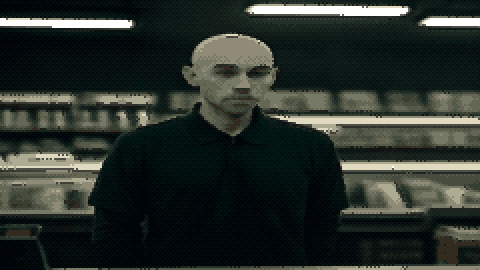
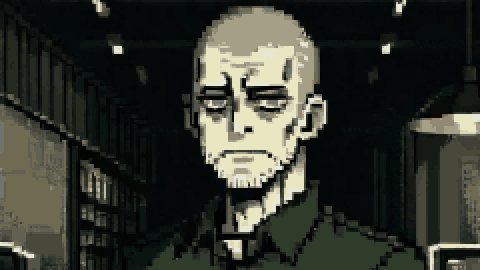
Face-to-face art drawn natively as pixel art (Pixel Illustrious on AI Horde)
Replace the pixelated photos with images from a pixel-art model; the
cleanup only crops, snaps to the 2x2 grid and tidies the palette. Bloom is
off in conversations (the art is already lit). horde.py gains img2img.

Claude-Session: https://claude.ai/code/session_01N3XSPxGLPuAzHZPVpyahxE

diff --git a/tools/ai_art.py b/tools/ai_art.py
@@ -46,8 +46,9 @@ PIXEL_STYLE = 'muted colors, dim lighting, limited palette'
 # Pixel-art faces drawn natively by a pixel-art model on AI Horde.
 HORDE = {
     'vincent': dict(
-        prompt=('pixel art, dark horror adventure game, 1boy, solo, young man, 28 years old, bald, shaved head, grey eyes, '
-                'light stubble, tired expression, dark circles under eyes, pale skin, dark green polo shirt, name tag, '
+        prompt=('pixel art, dark horror adventure game, 1boy, solo, young man, 20s, youthful face, smooth skin, clean shaven '
+                'bald head, shaved head, grey eyes, faint stubble, tired expression, dark circles under eyes, pale skin, '
+                'dark green polo shirt, name tag, '
                 'standing behind convenience store counter, cash register, looking at viewer, upper body, night, '
                 'fluorescent ceiling light, shelves in background, ' + PIXEL_STYLE),
         seed=11),
@@ -60,7 +61,7 @@ HORDE = {
         prompt=('pixel art, dark horror adventure game, 1girl, solo, lying on stomach, face down, face not visible, long red '
                 'hair spread on the ground, dark coat, arm outstretched, wet asphalt, empty parking lot, night, car headlights '
                 'shining on her from the side, from above, long shadows, ' + PIXEL_STYLE),
-        seed=11),
+        seed=11, anchor='bottom'),
 }
 HORDE_MODEL = 'Pixel Illustrious'
 
@@ -161,13 +162,13 @@ def pixelate(src, dst, colors=28, gamma=1.15, scale=2, spread=0.035):
     im.save(dst, optimize=True)
 
 
-def clean_pixel_art(src, dst, colors=40, gamma=1.05):
+def clean_pixel_art(src, dst, colors=40, gamma=1.05, anchor='top'):
     """The source is already pixel art: crop to 16:9, snap to a 240x135 grid of
     2x2 blocks, tidy the palette (no dithering), keep it dim."""
     im = Image.open(src).convert('RGB')
     w, h = im.size
     ch = int(w * 9 / 16)
-    top = max(0, (h - ch) // 3)
+    top = {'top': 0, 'center': (h - ch) // 2, 'bottom': h - ch}[anchor]
     im = im.crop((0, top, w, top + ch))
     pw, ph = W // 2, H // 2
     im = im.resize((pw, ph), Image.BOX)
@@ -190,7 +191,7 @@ def build_horde(names, refetch=False):
         if refetch or not os.path.exists(raw):
             print('generating', name, 'on AI Horde (' + HORDE_MODEL + ')')
             horde.generate(e['prompt'], raw, HORDE_MODEL, 576, 384, e['seed'], negative=HORDE_NEG)
-        clean_pixel_art(raw, os.path.join(OUT, name + '.png'))
+        clean_pixel_art(raw, os.path.join(OUT, name + '.png'), anchor=e.get('anchor', 'top'))
         print('built', name)
 
 

diff --git a/tools/horde.py b/tools/horde.py
@@ -26,14 +26,20 @@ def _req(method, path, body=None):
 
 
 def generate(prompt, out, model, w=512, h=320, seed=1, steps=28, cfg=6.5, negative='', sampler='k_euler_a',
-             loras=None, timeout=7200, verbose=True):
+             loras=None, timeout=7200, verbose=True, source=None, denoise=0.5):
     params = {'width': w, 'height': h, 'steps': steps, 'cfg_scale': cfg, 'seed': str(seed),
               'sampler_name': sampler, 'n': 1, 'karras': True}
     if loras:
         params['loras'] = loras
     full = prompt + (' ### ' + negative if negative else '')
-    job = _req('POST', '/generate/async', {'prompt': full, 'params': params, 'models': [model],
-                                            'r2': True, 'nsfw': False, 'censor_nsfw': True, 'trusted_workers': False})
+    body = {'prompt': full, 'params': params, 'models': [model],
+            'r2': True, 'nsfw': False, 'censor_nsfw': True, 'trusted_workers': False}
+    if source:   # img2img: keep the same character, change the pose/expression
+        with open(source, 'rb') as f:
+            body['source_image'] = base64.b64encode(f.read()).decode()
+        body['source_processing'] = 'img2img'
+        params['denoising_strength'] = denoise
+    job = _req('POST', '/generate/async', body)
     jid = job['id']
     t0 = time.time()
     last = None
@@ -76,5 +82,7 @@ if __name__ == '__main__':
     ap.add_argument('--seed', type=int, default=1)
     ap.add_argument('--steps', type=int, default=28)
     ap.add_argument('--neg', default='')
+    ap.add_argument('--source', help='img2img source image')
+    ap.add_argument('--denoise', type=float, default=0.5)
     a = ap.parse_args()
-    generate(a.prompt, a.out, a.model, a.w, a.h, a.seed, a.steps, negative=a.neg)
+    generate(a.prompt, a.out, a.model, a.w, a.h, a.seed, a.steps, negative=a.neg, source=a.source, denoise=a.denoise)
